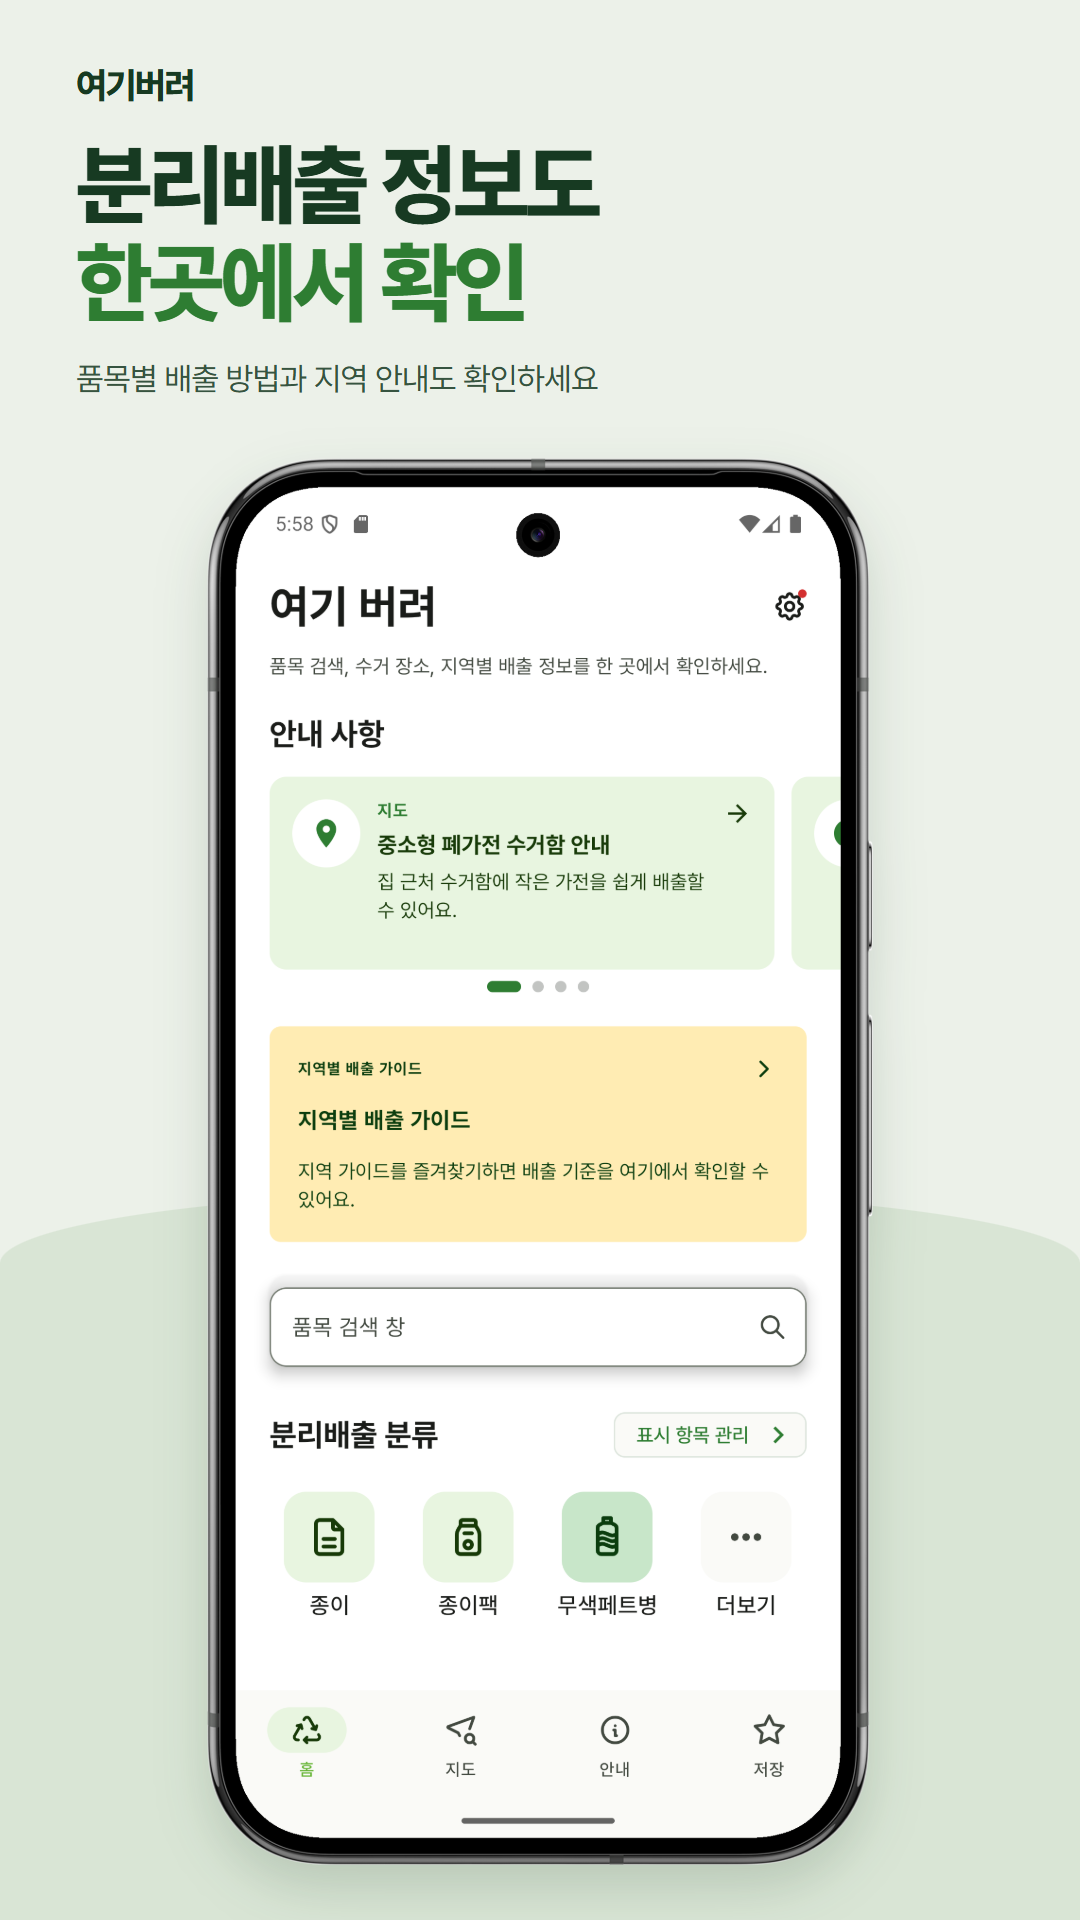
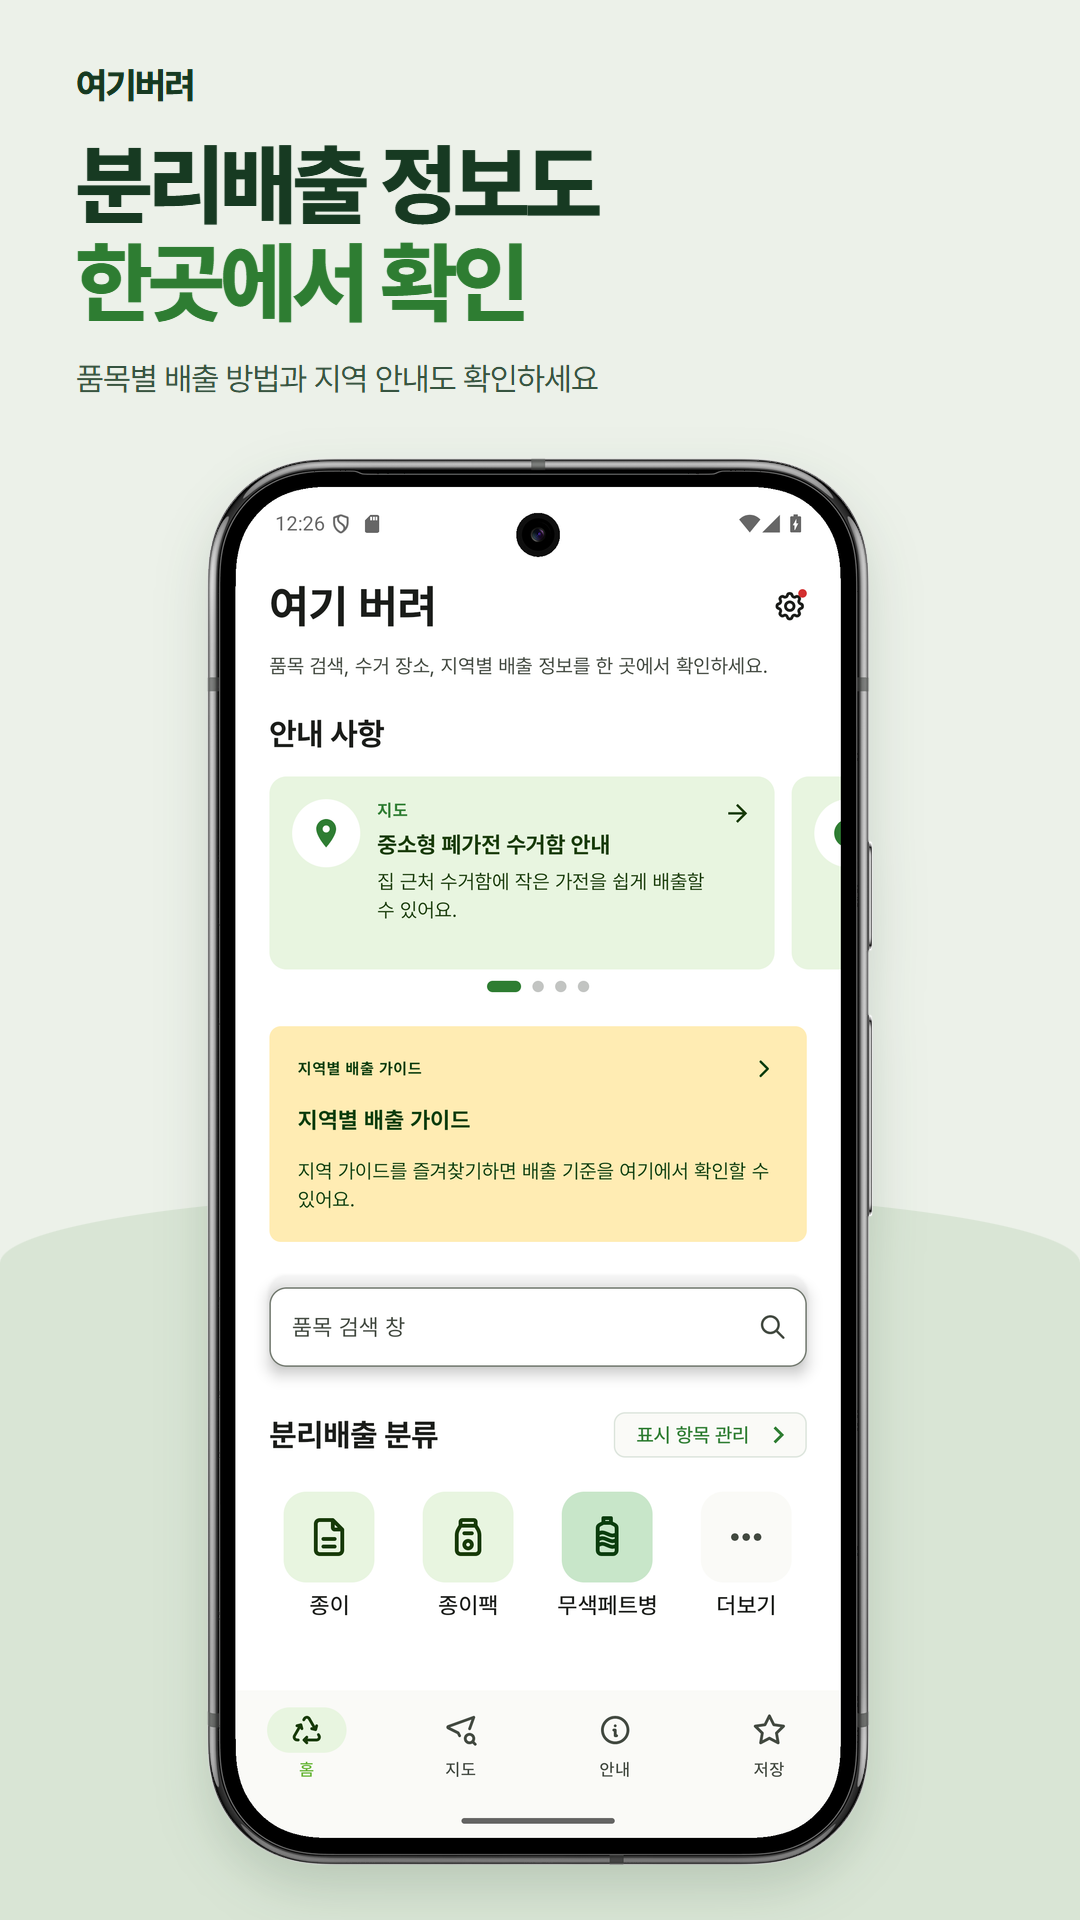
chore: 배포 빌드 기반 스토어 화면 교체
- 배포 AAB에서 캡처한 홈과 지역 안내 이미지 반영
- 배포 산출물 식별 정보와 실제 화면 검증 결과 기록

Refs #586

diff --git a/docs/google-play/ko-KR/README.md b/docs/google-play/ko-KR/README.md
@@ -38,17 +38,18 @@
 ## 화면과 자료 출처
 
 - 지도, 중소형 폐가전 안내와 장소 즐겨찾기는 네이티브 Android 앱 1.2.0 debug 빌드에서 캡처했습니다. 지도는 서울시청의 공개 예시 좌표를 기준으로 실제 조회한 수거함을 보여줍니다.
-- 홈은 [7bbff55d](https://github.com/AndroidStudy-Sesac/Yeogi-Beoryeo/commit/7bbff55dc251e18b277ba213e6664380c4b2fcc2), 지역 안내는 [4c1c8aa3](https://github.com/AndroidStudy-Sesac/Yeogi-Beoryeo/commit/4c1c8aa38f2c8d736513a1fad5ffff1fa625f161)의 1.2.0 debug 빌드에서 캡처했습니다. 두 빌드는 [#596](https://github.com/AndroidStudy-Sesac/Yeogi-Beoryeo/pull/596) 검증에 사용했습니다. 지역 안내는 경기도 양평군 양평읍 공흥1리의 실제 조회 결과를 보여줍니다.
+- 홈과 지역 안내는 배포한 v1.2.0 AAB에서 생성한 APK를 설치해 캡처했습니다. 소스를 다시 빌드하지 않고 배포 산출물의 코드와 리소스를 사용했습니다. 지역 안내는 경기도 양평군 양평읍 공흥1리의 실제 조회 결과를 보여줍니다.
 - Android SDK의 공식 Pixel 9 Pro 스킨으로 기기 프레임을 적용했습니다. 화면의 글자와 데이터를 다시 그리거나 편집하지 않았습니다.
 - 그래픽 이미지의 가전 일러스트는 이미지 생성 도구로 제작했습니다. 추가 문구에는 Pretendard를 사용했으며, 글꼴 라이선스는 [THIRD_PARTY_NOTICES.md](../../../THIRD_PARTY_NOTICES.md)에 기재되어 있습니다.
 - 무료 배출 안내는 [인천광역시 공식 안내](https://www.incheon.go.kr/recycle/RC100300/3069041)를 참고했습니다. 앱의 공공데이터와 공식 안내 출처는 [DATA_SOURCES.md](../../../DATA_SOURCES.md)에서도 확인할 수 있습니다.
 - 이미지 규격과 대체 텍스트 기준은 [Google Play 공식 안내](https://support.google.com/googleplay/android-developer/answer/9866151?hl=ko)를 따릅니다.
 
-## 배포 버전과 화면 대조
+## 배포 빌드 화면 검증
 
-홈과 지역 안내의 캡처 빌드를 배포 기준인 [v1.2.0](https://github.com/AndroidStudy-Sesac/Yeogi-Beoryeo/tree/v1.2.0)과 대조했습니다. 버전 이름만으로 일치 여부를 판단하지 않고, [홈 캡처까지의 변경](https://github.com/AndroidStudy-Sesac/Yeogi-Beoryeo/compare/v1.2.0...7bbff55dc251e18b277ba213e6664380c4b2fcc2)과 [지역 안내 캡처까지의 변경](https://github.com/AndroidStudy-Sesac/Yeogi-Beoryeo/compare/v1.2.0...4c1c8aa38f2c8d736513a1fad5ffff1fa625f161)을 확인했습니다.
+2026년 9월 12일, 배포한 [v1.2.0](https://github.com/AndroidStudy-Sesac/Yeogi-Beoryeo/tree/v1.2.0) AAB에서 bundletool로 APK를 생성해 Pixel 9 Pro Android Emulator에 설치했습니다. 패키지 `com.team.yeogibeoryeo`, 버전 이름 `1.2.0`, 버전 코드 `10`과 업로드 인증서의 일치를 확인했습니다.
 
-- 홈은 1280 × 2856 px, 밀도 480 dpi, 글자 크기 1.0의 세로 화면입니다. 화면 폭은 약 426.7 dp로, #596에서 추가한 720 dp 최대 폭 제한과 600 dp 이상에서의 여백 변경이 적용되지 않습니다. 좌우 여백은 배포 버전과 같은 24 dp이며, 표시 문구와 구성 요소도 같습니다.
-- 지역 안내의 화면, 문자열, 조회 및 데이터 처리 코드는 배포 버전과 같습니다. 이미지에 보이는 배출 요일과 시간은 공흥1리의 조회 결과이며, 양평읍 전체의 공통 배출 기준을 뜻하지 않습니다.
+- 홈은 최초 사용 가이드를 건너뛴 뒤 안내 카드, 품목 검색과 분리배출 분류가 보이는 화면을 캡처했습니다. 기존 소개 이미지와 표시 문구 및 구성 요소의 위치가 일치하는지 확인했습니다.
+- 지역 안내는 ‘안내’ 탭에서 경기도, 양평군, 양평읍을 차례로 선택하고 조회한 뒤 공흥1리를 선택했습니다. 일반쓰레기와 음식물쓰레기의 배출 요일, 시간과 방법을 직접 확인하고, 스크롤하여 요일과 시간이 보이는 화면을 캡처했습니다. 공흥1리의 조회 결과이며 양평읍 전체의 공통 배출 기준을 뜻하지 않습니다.
+- 두 화면 모두 1280 × 2856 px, 밀도 480 dpi, 글자 크기 1.0의 라이트 모드에서 캡처했습니다. 원본 화면에 공식 Pixel 9 Pro 프레임을 적용한 뒤 1080 × 1920 px 소개 이미지로 저장했습니다.
 
-위 확인은 캡처 조건과 구현 소스를 기준으로 한 화면 구성 대조입니다. 배포 빌드를 다시 실행해 픽셀 단위로 비교한 결과는 아닙니다.
[1 lines of base64/hex data omitted]
